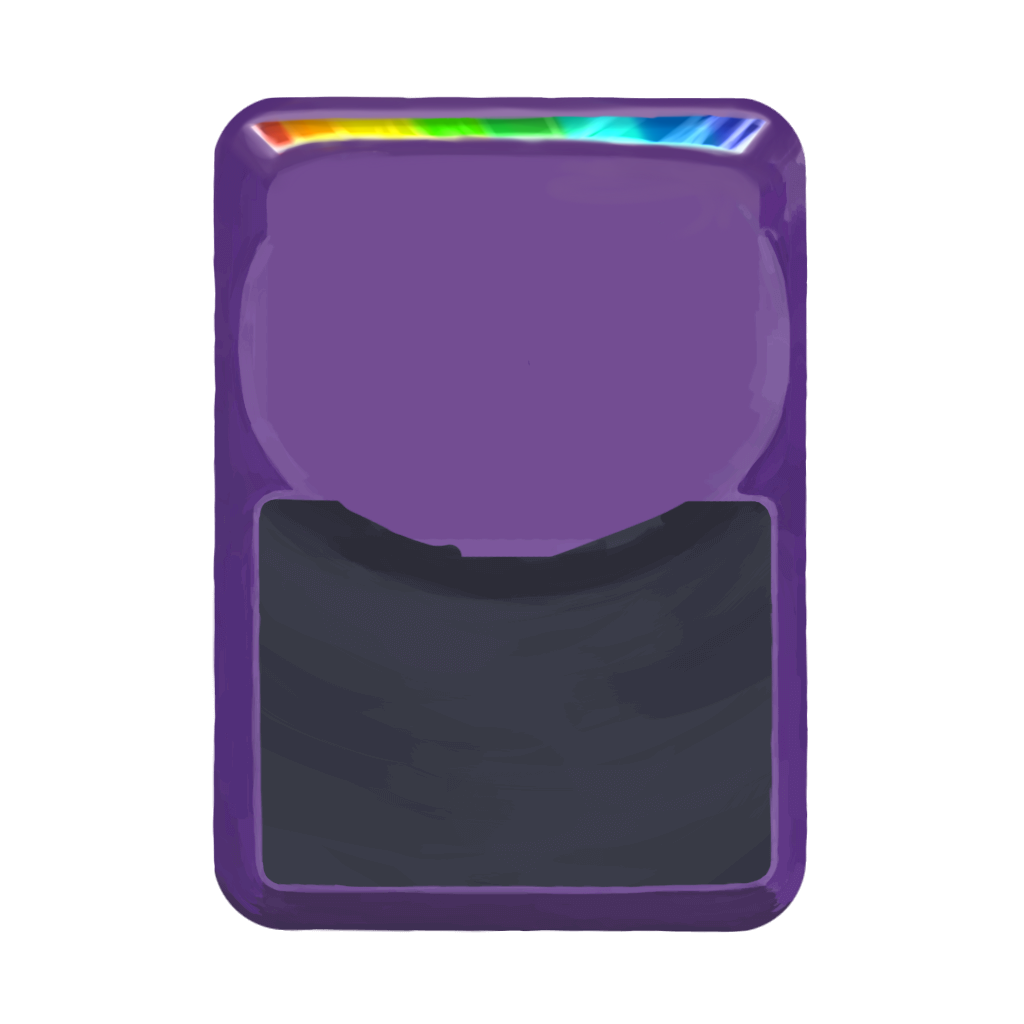
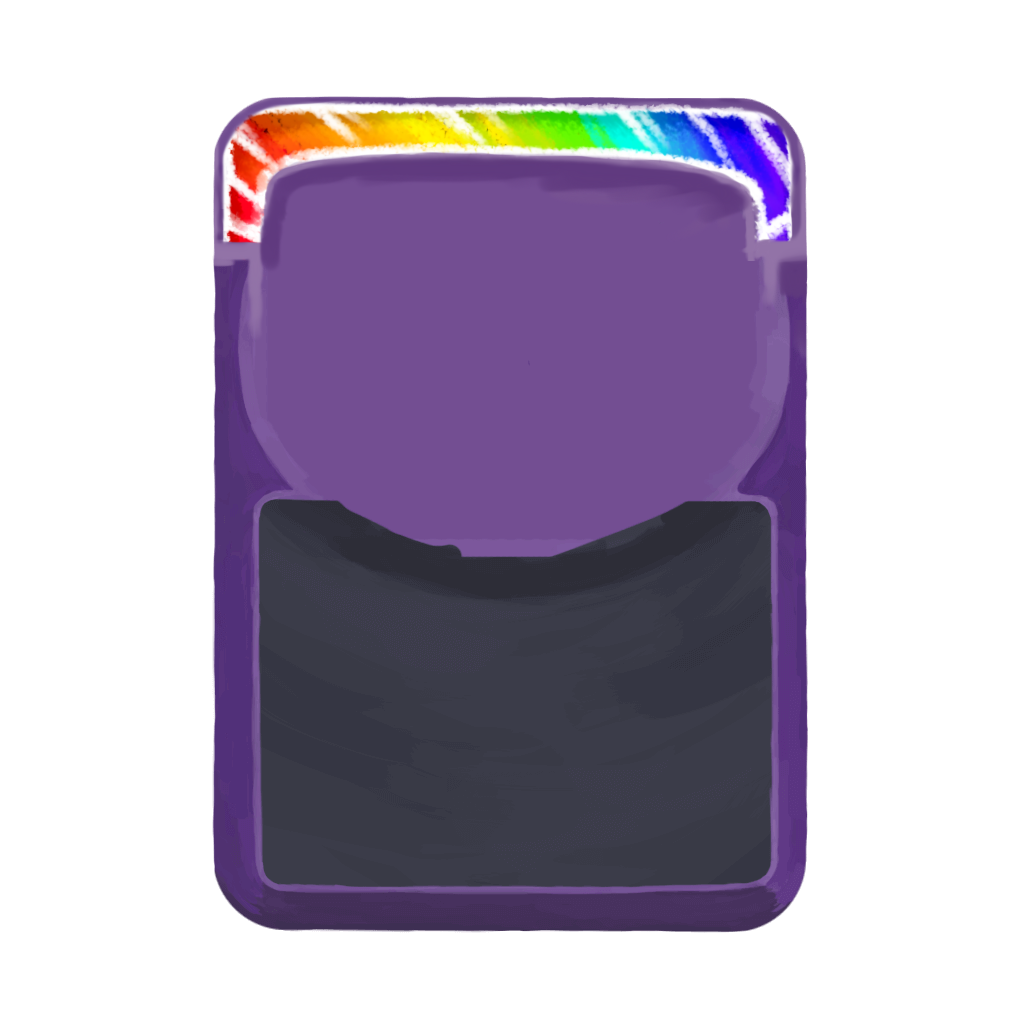
New cardbacks and more art

Changed region(s): [[0.1875, 0.0938, 0.8125, 0.3125]]

diff --git a/src/main/java/prismaticmod/powers/OchoPower.java b/src/main/java/prismaticmod/powers/OchoPower.java
@@ -43,6 +43,7 @@ public class OchoPower extends BasePower {
     }
     public void onApplyPower(AbstractPower power, AbstractCreature target, AbstractCreature source) {
         if(power instanceof OchoPower){
+            cardsDoubledThisTurn = 0;
             for(AbstractCard c : AbstractDungeon.actionManager.cardsPlayedThisTurn){
                 if((c.costForTurn == 0 || (c.freeToPlayOnce && c.cost != -1))){
                     cardsDoubledThisTurn++;

diff --git a/src/main/java/prismaticmod/cards/DivineStrike.java b/src/main/java/prismaticmod/cards/DivineStrike.java
@@ -25,7 +25,7 @@ public class DivineStrike extends BaseCard {
     private static final int DAMAGE = 6;
     private static final int UPG_DAMAGE = 3;
     private static final int mantraNumber = 2;
-    private static final int UPG_Mantra = 1;
+    private static final int UPG_Mantra = 0;
 
     public DivineStrike() {
         super(ID, info); //Pass the required information to the BaseCard constructor.

diff --git a/src/main/java/prismaticmod/cards/DivineDefend.java b/src/main/java/prismaticmod/cards/DivineDefend.java
@@ -23,7 +23,7 @@ public class DivineDefend extends BaseCard {
     private static final int BLOCK = 5;
     private static final int UPG_BLOCK = 3;
     private static final int mantraNumber = 2;
-    private static final int UPG_Mantra = 1;
+    private static final int UPG_Mantra = 0;
 
     public DivineDefend() {
         super(ID, info); //Pass the required information to the BaseCard constructor.

diff --git a/src/main/java/prismaticmod/cards/Caltrops2.java b/src/main/java/prismaticmod/cards/Caltrops2.java
@@ -30,6 +30,6 @@ public class Caltrops2 extends BaseCard {
     @Override
     public void use(AbstractPlayer p, AbstractMonster m) {
         addToBot(new ApplyPowerAction(p, p, new ThornsPower(p, magicNumber), magicNumber));
-        addToBot(new ApplyPowerAction(p, p, new Caltrops2Power(1), magicNumber));
+        addToBot(new ApplyPowerAction(p, p, new Caltrops2Power(1), 1));
     }
 }

diff --git a/src/main/java/theprismatic/ThePrismatic.java b/src/main/java/theprismatic/ThePrismatic.java
@@ -334,7 +334,7 @@ public class ThePrismatic extends CustomPlayer {
         tmpPool.add(new DeceiveReality());
         tmpPool.add(new DeusExMachina());
         tmpPool.add(new DevaForm());
-        tmpPool.add(new Devotion2());
+        tmpPool.add(new Devotion());
         tmpPool.add(new EmptyBody());
         tmpPool.add(new EmptyFist());
         tmpPool.add(new EmptyMind());
